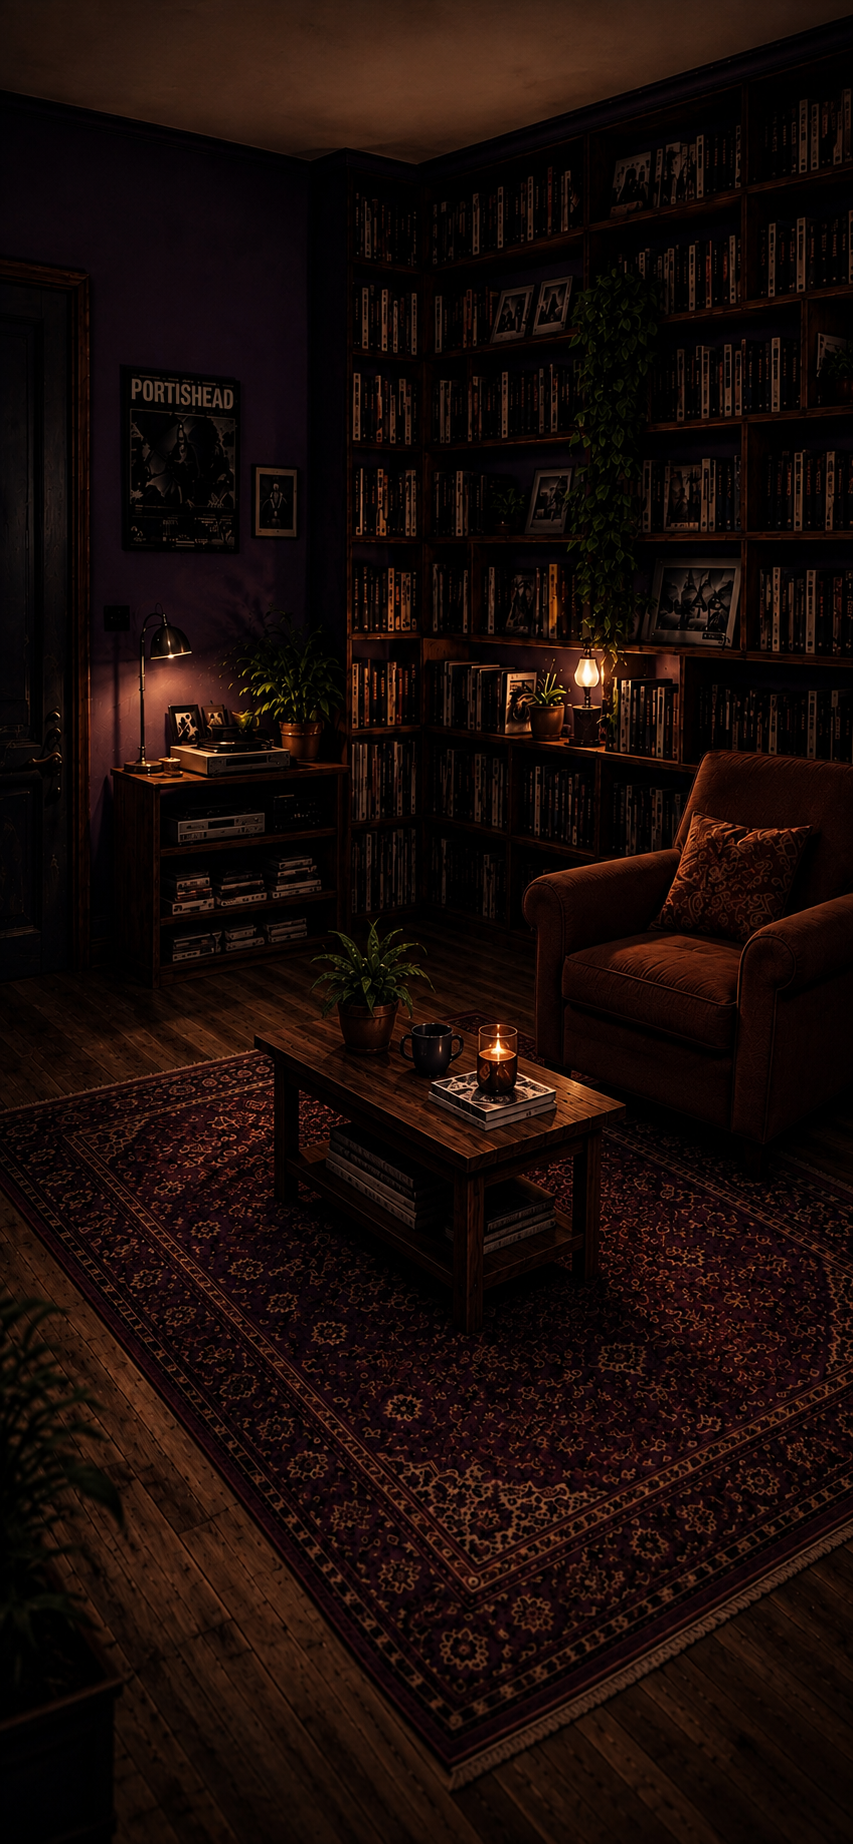
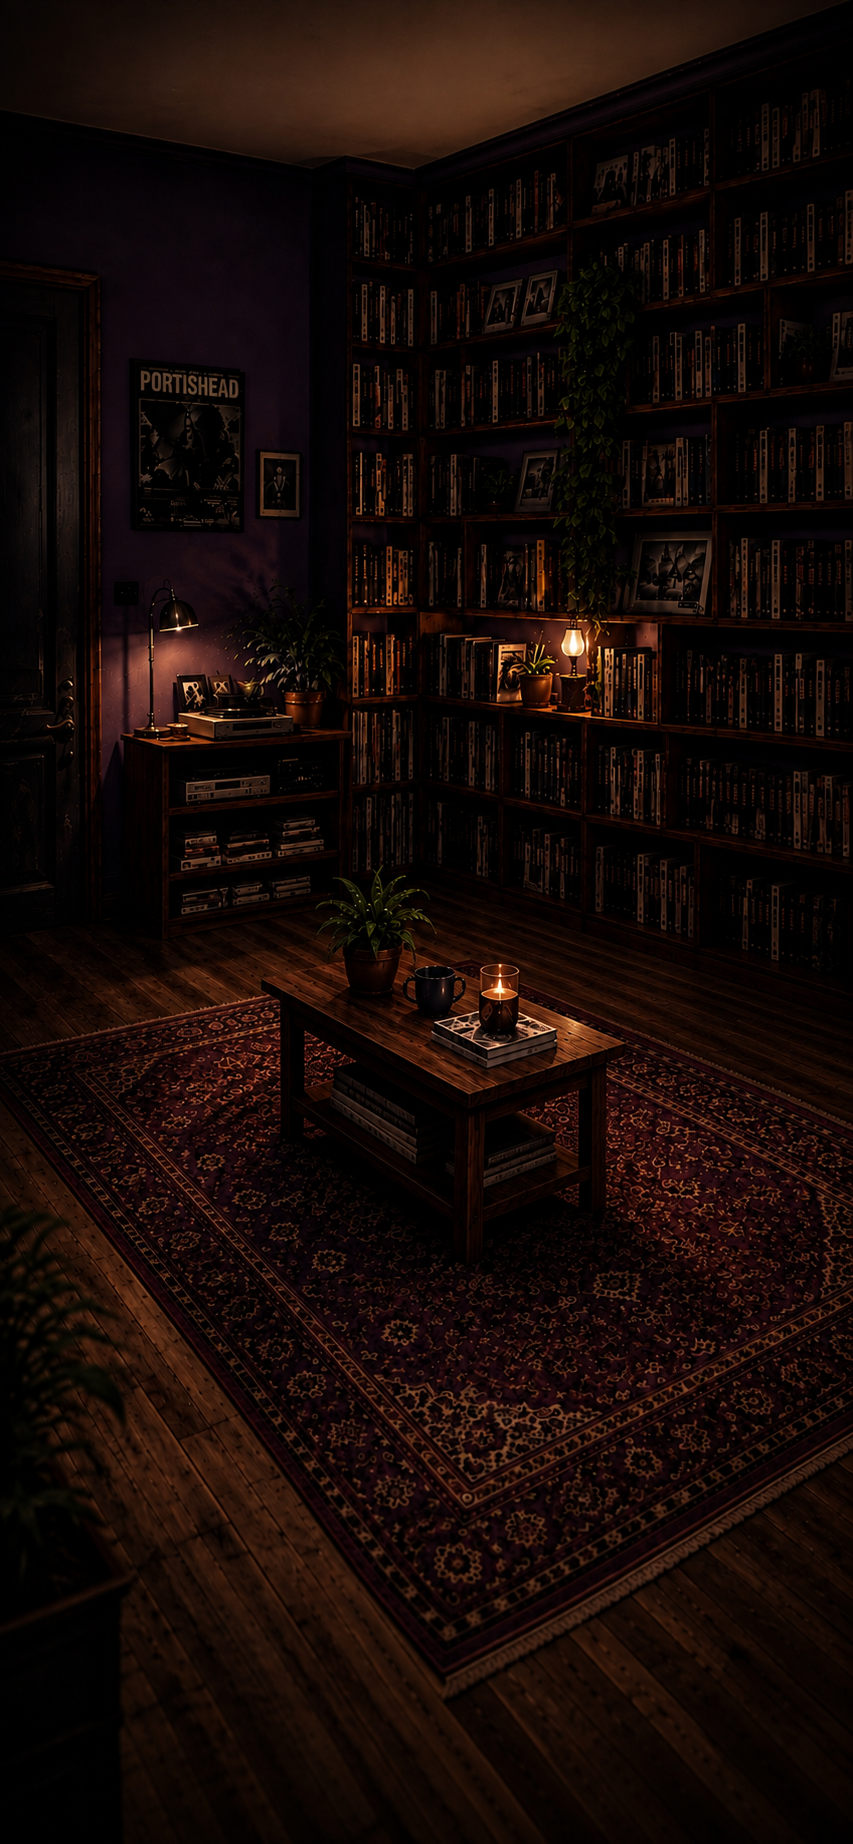
AI Coach becomes the library room: fixed scene + superposed armchair companion
Room as a fixed backdrop, the armchair companion superposed in the (now empty)
chair spot on the rug, and the conversation layered over the lower half behind
a scrim. AiCoachChat gains hideCompanion to suppress its in-chat figure and
reserve top space for the seated companion. Swaps in the no-armchair room art.

Claude-Session: https://claude.ai/code/session_01KKhQMghLUspva6Yzs31jQ3

diff --git a/app/support/coach.tsx b/app/support/coach.tsx
@@ -1,34 +1,76 @@
 import React from 'react';
-import { View, Text, Pressable } from 'react-native';
-import { ZoneGlow } from '@/components/ui/ZoneGlow';
+import { View, Text, Pressable, Image, Dimensions } from 'react-native';
+import { LinearGradient } from 'expo-linear-gradient';
 import { useRouter } from 'expo-router';
-import { SafeArea } from '@/components/ui/SafeArea';
-import { RoomBackdrop } from '@/components/ui/RoomBackdrop';
+import { useSafeAreaInsets } from 'react-native-safe-area-context';
+import { CompanionArt } from '@/components/ui/CompanionArt';
+import { useCompanion } from '@/hooks/useCompanion';
 import { AiCoachChat } from '@/components/support/AiCoachChat';
-import { headingShadow } from '@/styles';
+
+/**
+ * AI Coach — you step into the library and sit down with her. The room is a
+ * fixed backdrop, she's superposed in her own armchair on the rug, and the
+ * conversation lives over the lower half (a scrim keeps the text readable).
+ * Same flat as Support/Me; here you've walked through to the quiet room.
+ */
+
+const SCREEN_W = Dimensions.get('window').width;
+const ROOM = require('../../assets/scenes/coach_room.png');
+const ROOM_W = 853;
+const ROOM_H = 1844;
+const IMG_H = SCREEN_W * (ROOM_H / ROOM_W);
+
+// The armchair companion, settled into the empty spot on the rug (grid E7–G10).
+const COMP = { xCenter: 0.72, bottomY: 0.62, width: 0.52, wh: 577 / 475 };
 
 export default function CoachScreen() {
   const router = useRouter();
+  const insets = useSafeAreaInsets();
+  const { pose } = useCompanion();
+
+  const compW = COMP.width * SCREEN_W;
+  const compH = compW * COMP.wh;
+
   return (
-    <SafeArea bottom={false}>
-      <ZoneGlow zone="support" intensity={0.55} />
-      {/* Same tea-room as Support — you've just sat down. The shared floor and
-          lamp make the two screens read as one continuous place. */}
-      <RoomBackdrop warmth="#E0B080" lampTop={120} horizon={0.58} intensity={0.9} />
-      <View className="flex-row items-center gap-4 px-6 pt-4 pb-3">
-        <Pressable onPress={() => router.back()} hitSlop={12}>
-          <Text style={{ color: '#817B91', fontSize: 18 }}>←</Text>
-        </Pressable>
-        <Text
-          className="text-text-primary text-2xl font-semibold tracking-tight"
-          style={headingShadow}
-        >
-          AI Coach
-        </Text>
+    <View style={{ flex: 1, backgroundColor: '#0d0b12' }}>
+      {/* The library, fixed behind the conversation. */}
+      <Image
+        source={ROOM}
+        style={{ position: 'absolute', top: 0, left: 0, width: SCREEN_W, height: IMG_H }}
+        resizeMode="cover"
+      />
+      {/* Her, in her chair. */}
+      <View
+        pointerEvents="none"
+        style={{
+          position: 'absolute',
+          left: COMP.xCenter * SCREEN_W - compW / 2,
+          top: COMP.bottomY * IMG_H - compH,
+          width: compW,
+          height: compH,
+        }}
+      >
+        <CompanionArt source={pose('armchair')} width={compW} height={compH} />
       </View>
-      <View className="flex-1">
-        <AiCoachChat />
+      {/* Scrim so the conversation stays legible over the lower room. */}
+      <LinearGradient
+        pointerEvents="none"
+        colors={['rgba(13,11,18,0)', 'rgba(13,11,18,0.55)', 'rgba(13,11,18,0.9)']}
+        locations={[0, 0.5, 1]}
+        style={{ position: 'absolute', left: 0, right: 0, bottom: 0, top: IMG_H * 0.42 }}
+      />
+
+      <View style={{ flex: 1, paddingTop: insets.top }}>
+        <View className="flex-row items-center gap-4 px-6 pt-2 pb-3">
+          <Pressable onPress={() => router.back()} hitSlop={12}>
+            <Text style={{ color: '#ECE9F1', fontSize: 18 }}>←</Text>
+          </Pressable>
+          <Text style={{ fontFamily: 'SkinnyCustard', fontSize: 28, color: '#ECE9F1' }}>AI Coach</Text>
+        </View>
+        <View className="flex-1">
+          <AiCoachChat hideCompanion />
+        </View>
       </View>
-    </SafeArea>
+    </View>
   );
 }

diff --git a/src/components/support/AiCoachChat.tsx b/src/components/support/AiCoachChat.tsx
@@ -7,6 +7,7 @@ import {
   Pressable,
   KeyboardAvoidingView,
   Platform,
+  useWindowDimensions,
 } from "react-native";
 import Animated, { FadeInDown } from "react-native-reanimated";
 import * as Haptics from "expo-haptics";
@@ -21,6 +22,9 @@ import type { ChatMessage } from "@/types";
 
 interface AiCoachChatProps {
   sessionType?: string;
+  /** When the screen already shows the companion in a room, hide the in-chat
+   *  one and reserve top space so the conversation sits below her chair. */
+  hideCompanion?: boolean;
 }
 
 // "What do you need right now?" — one tap to open the conversation, so the user
@@ -47,7 +51,7 @@ const QUICK_ACTIONS: { label: string; message: string; urge?: boolean }[] = [
   { label: "Just talk to me", message: "Can we just talk for a bit?" },
 ];
 
-export function AiCoachChat({ sessionType = "general" }: AiCoachChatProps) {
+export function AiCoachChat({ sessionType = "general", hideCompanion = false }: AiCoachChatProps) {
   const router = useRouter();
   const { pose } = useCompanion();
   const { messages, isTyping, sendMessage } = useAiCoach(sessionType);
@@ -56,6 +60,7 @@ export function AiCoachChat({ sessionType = "general" }: AiCoachChatProps) {
   const [quietCompanionSignal, setQuietCompanionSignal] = useState(0);
   const flatListRef = useRef<FlatList>(null);
   const insets = useSafeAreaInsets();
+  const { height: winH } = useWindowDimensions();
 
   // Show the openers only before the conversation has really started
   // (just the assistant's greeting present).
@@ -108,7 +113,11 @@ export function AiCoachChat({ sessionType = "general" }: AiCoachChatProps) {
         showsVerticalScrollIndicator={false}
         renderItem={({ item }) => <ChatBubble message={item} />}
         ListHeaderComponent={
-          showQuickActions ? (
+          hideCompanion ? (
+            // The room already shows her in her chair — just reserve the top
+            // space so the conversation begins below her.
+            <View style={{ height: winH * 0.4 }} />
+          ) : showQuickActions ? (
             <View className="pt-2 pb-1 items-center">
               <CompanionArt
                 source={pose("armchair")}
